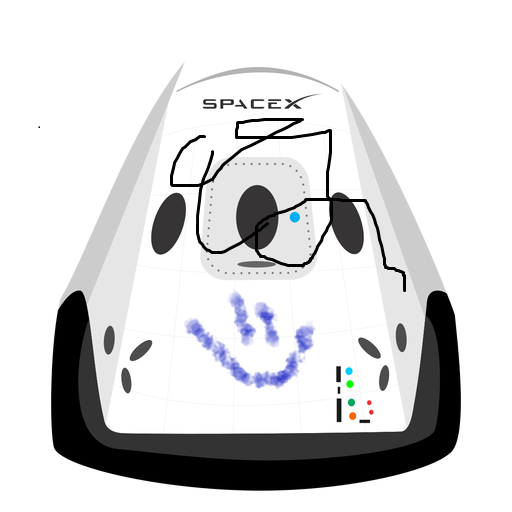
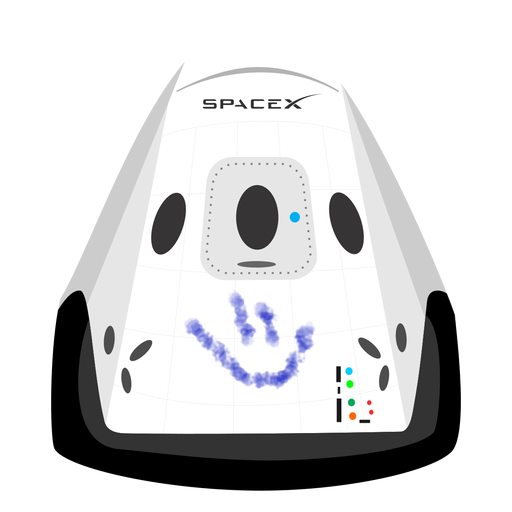
cabio de imagen y algunos estilos

diff --git a/css/estilos.css b/css/estilos.css
@@ -19,12 +19,12 @@ body
 
 #cabecera
 {
-    background: #33a;
+    background: #33a url("../imagenes/dragon.png");
     box-shadow: 0px 2px 50px 0px rgba(0,0,0,0.5);
     color: white;
     font-weight: bold;
     margin: 0;
-    padding: 0.5em;
+    padding: 0.5em 0 0.5em 2em;
 }
 
 #cabecera #tagline
